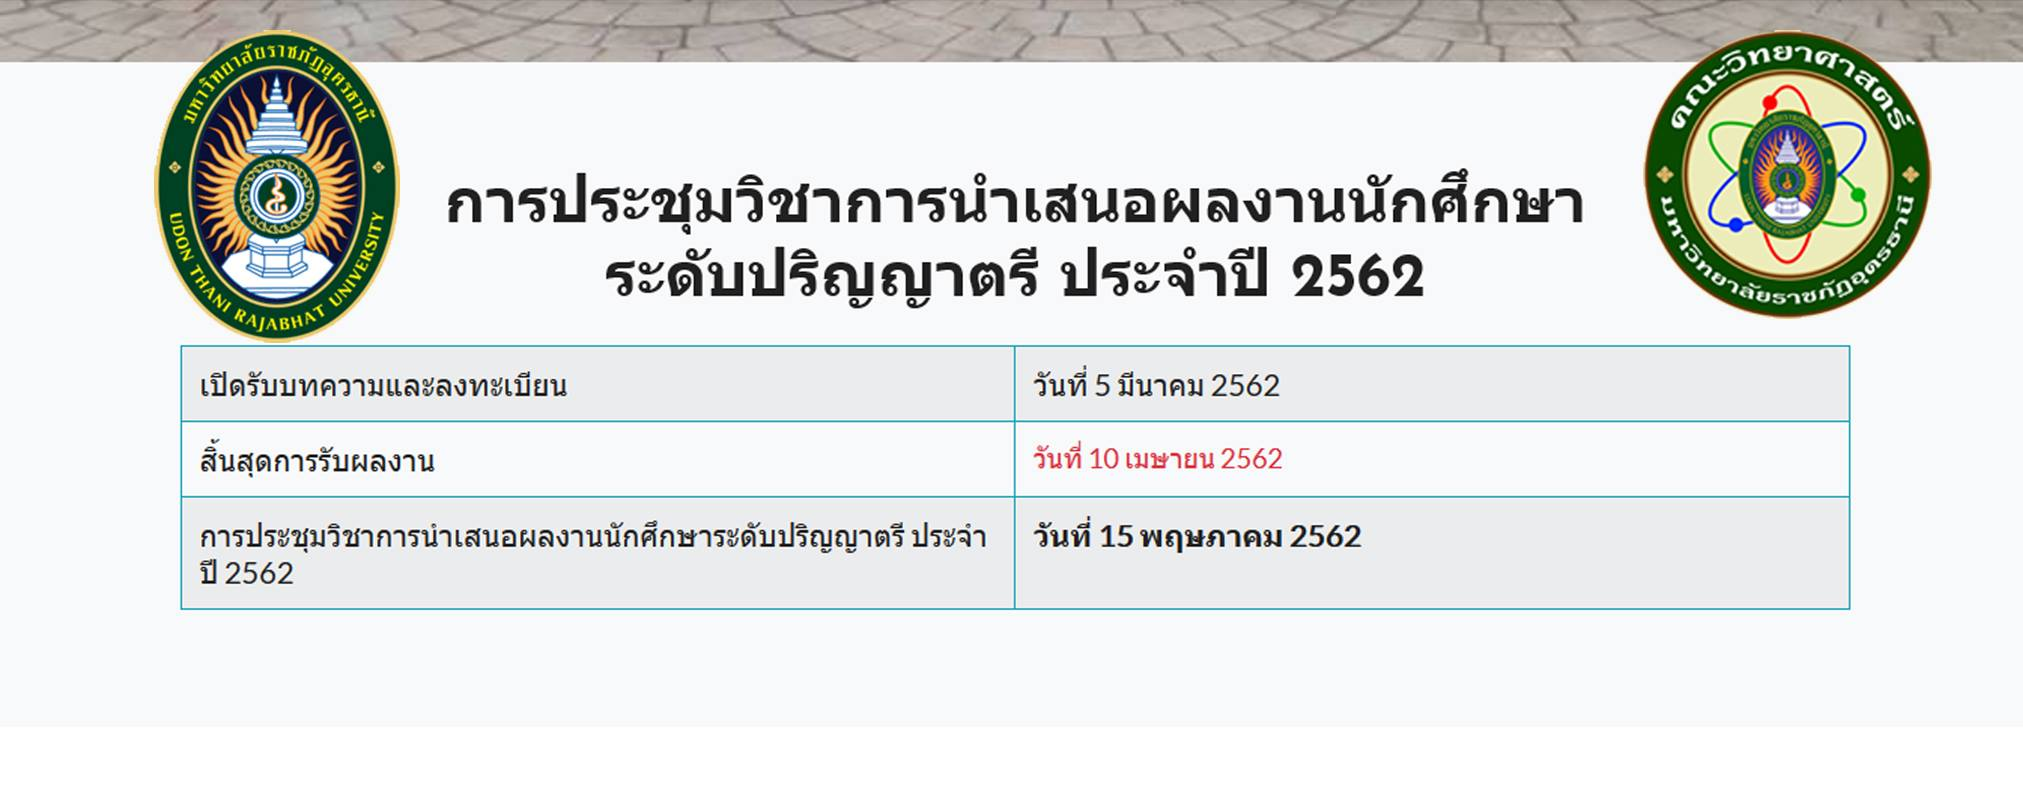
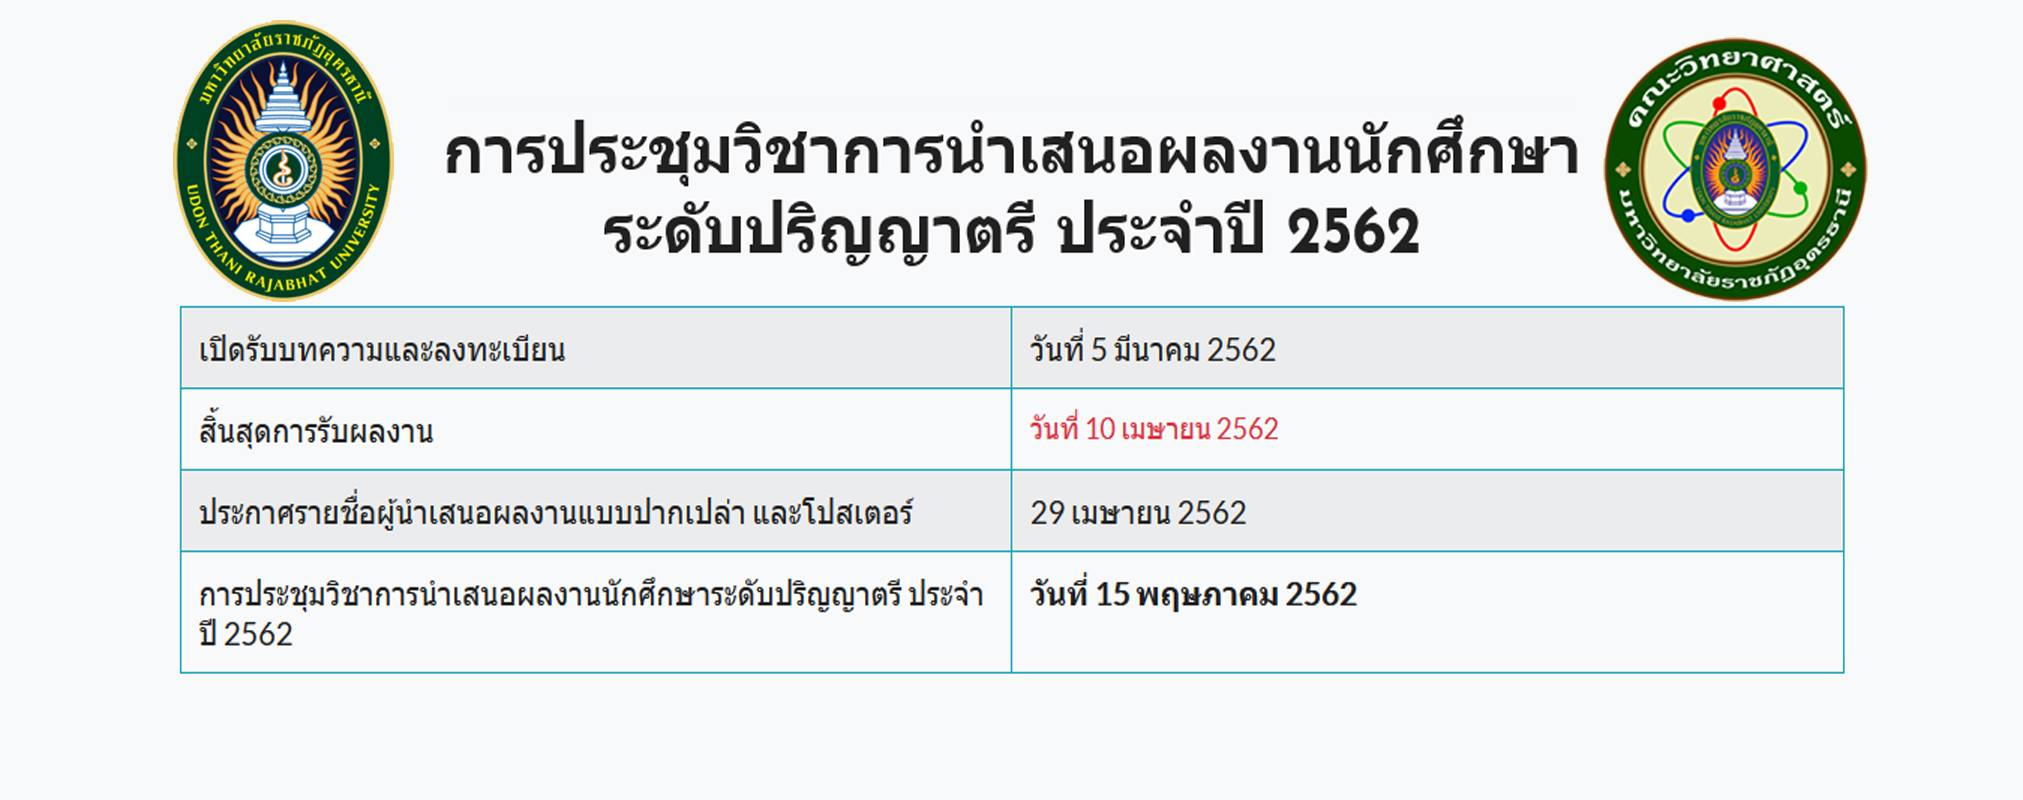
update picture slide

Changed region(s): [[0.0, 0.0, 1.0, 0.8438]]

diff --git a/application/views/public/frontoffice/index.php b/application/views/public/frontoffice/index.php
@@ -21,6 +21,10 @@
 							<td class="col-6 border border-info text-danger" style="width: 50%;">วันที่ 10 เมษายน 2562</td>
 						</tr>
 						<tr>
+							<td class="col-6 border border-info " style="width: 50%;">ประกาศรายชื่อผู้นำเสนอผลงานแบบปากเปล่า และโปสเตอร์</td>
+								<td class="col-6 border border-info " style="width: 50%;"> 29 เมษายน 2562</td>
+						</tr>
+						<tr>
 							<td class="col-6 border border-info " style="width: 50%;">การประชุมวิชาการนำเสนอผลงานนักศึกษาระดับปริญญาตรี ประจำปี 2562</td>
 							<td class="col-6 border border-info font-weight-bold" style="width: 50%;"> วันที่ 15 พฤษภาคม 2562 </td>
 						</tr>
